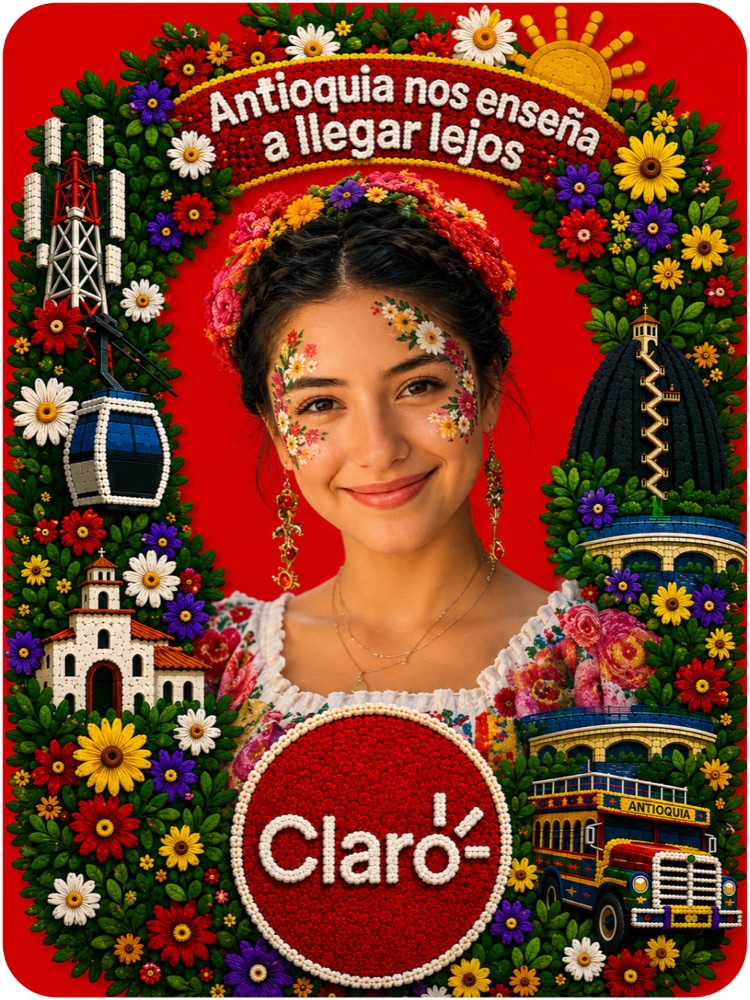
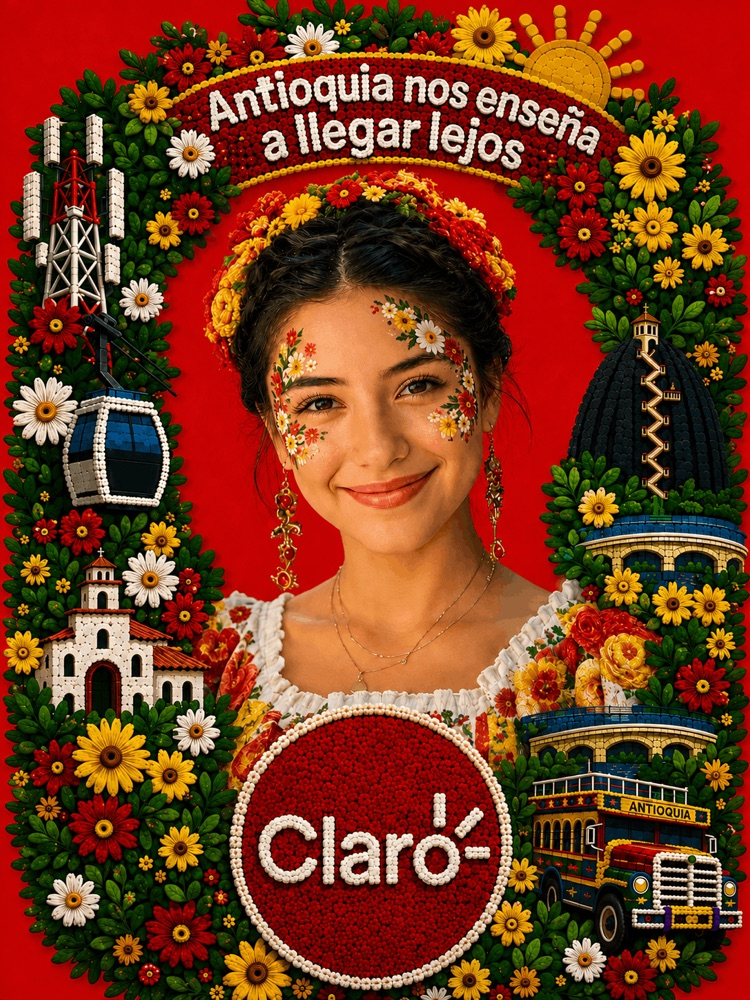
nuevas filtros

diff --git a/backend/functions/lib/config/feria.js b/backend/functions/lib/config/feria.js
@@ -105,7 +105,7 @@ exports.FERIA_FILTERS = {
     1: {
         id: 1,
         label: "Filtro 1",
-        templateUrl: "https://firebasestorage.googleapis.com/v0/b/imagen-ia-845a3.firebasestorage.app/o/feria-colombia%2FFiltro1.jpg?alt=media&token=954653c3-d5f4-4d55-a4c2-991527e5735a",
+        templateUrl: "https://firebasestorage.googleapis.com/v0/b/imagen-ia-845a3.firebasestorage.app/o/feria-colombia%2FFiltro1.png?alt=media&token=e8d69c2e-ff8c-47dc-bce9-3f10a6e406e0",
         prompt: `${BASE_PROMPT}
 
 HOW TO RENDER THE NEW FACE FOR THIS TEMPLATE:
@@ -114,7 +114,7 @@ In IMAGE 1 the model is a PHOTOREALISTIC WOMAN framed by an arch built out of re
 - The floral mosaic arch, the Antioquia landmarks inside it (antenna tower, Metrocable cabin, colonial church, Pueblito Paisa dome, bullring, chiva bus), the flower Claro logo and the flower banner must remain pixel-faithful to IMAGE 1.
 
 WARDROBE FOR THIS TEMPLATE — the model is a woman, so read the visitor's gender first:
-• IF THE VISITOR IS A WOMAN: keep everything as in IMAGE 1 — the earrings, the necklace and the embroidered white paisa blouse — and re-apply the delicate painted flower art (tiny daisies and petals) across the cheek and temple, adapted to the proportions of her face so it sits naturally on her features instead of looking pasted on.
+• IF THE VISITOR IS A WOMAN: keep everything as in IMAGE 1 — the earrings, the necklace and the embroidered white paisa blouse — and re-apply the painted flower art of IMAGE 1 — white daisies and small red and yellow blossoms spread across the cheekbone, the temple and the brow above the eye, at that same generous size and coverage — adapted to the proportions of her face so it follows her features instead of looking pasted on.
   MANDATORY: she must also wear the braided flower crown of IMAGE 1, with the same flowers, the same width and in the same position on top of her head, filling the same area of the frame. This applies even if her hair in IMAGE 2 is short, straight or loose: the crown rests on her own hair, which keeps the length and texture of her photo. Never leave her head bare.
 • IF THE VISITOR IS A MAN: no flower crown, no earrings, no necklace, no makeup, no embroidered or ruffled blouse. Instead:
   – A traditional Antioquian straw hat (sombrero aguadeño, natural or white straw) with a small band of the same flowers, placed where the flower crown was and filling the same area of the frame so the composition is identical.
@@ -128,14 +128,14 @@ ${OUTPUT_RULES}`,
     2: {
         id: 2,
         label: "Filtro 3",
-        templateUrl: "https://firebasestorage.googleapis.com/v0/b/imagen-ia-845a3.firebasestorage.app/o/feria-colombia%2FFiltro2.jpg?alt=media&token=8a949548-c42c-4e8a-be36-8257713c6f42",
+        templateUrl: "https://firebasestorage.googleapis.com/v0/b/imagen-ia-845a3.firebasestorage.app/o/feria-colombia%2FFiltro2.png?alt=media&token=f9b884b4-7b18-4915-a77d-6f147b9799c7",
         prompt: `${BASE_PROMPT}
 
 HOW TO RENDER THE NEW FACE FOR THIS TEMPLATE:
-IMAGE 1 is a PHOTOGRAPH, not an illustration: a WOMAN among the fresh flowers of a silleta, on a vivid Claro-red backdrop, with the campaign headline at the top and the round Claro logo with "PUEDES TODO" at the bottom right.
+IMAGE 1 is a PHOTOGRAPH, not an illustration: a WOMAN among the fresh flowers of a silleta, on a warm backdrop that graduates from Claro red at the top to orange, with glowing golden neon flower outlines in the corners, the campaign headline at the top and the round Claro logo with "PUEDES TODO" at the bottom right. Reproduce that gradient and those warm neon accents exactly as they are; do not flatten the background to a single red, and do not shift the neon to pink or magenta.
 - The output must stay fully PHOTOGRAPHIC. Natural skin texture with pores and real micro-detail, the same warm daylight, the same shallow depth of field and the same colour grade as IMAGE 1. Never stylise, paint, illustrate or 3D-render the face.
 - CAREFUL WITH THIS TEMPLATE: the model looks upwards and sideways with a wide open smile and one hand near her hair. That is HER pose, not an instruction. The visitor keeps the head angle, gaze and expression of IMAGE 2 — most visitors will be looking straight at the camera, and that is correct. If the raised hand no longer makes sense with the visitor's head position, leave it out; the flowers already fill that area.
-- The flowers, the bamboo silleta structure, the red backdrop with its neon flower outlines, the headline and the Claro logo stay exactly as in IMAGE 1.
+- The flowers, the bamboo silleta structure, the red-to-orange backdrop with its golden neon flower outlines, the headline with its hummingbird and yellow flower, and the Claro logo stay exactly as in IMAGE 1.
 
 WARDROBE FOR THIS TEMPLATE — the model is a woman, so read the visitor's gender first:
 • IF THE VISITOR IS A WOMAN: keep the handmade flower earrings and the gold necklaces of IMAGE 1, and re-apply the small floral glitter and the tiny flowers near the eye, adapted to her face.
@@ -146,7 +146,7 @@ ${OUTPUT_RULES}`,
     3: {
         id: 3,
         label: "Filtro 2",
-        templateUrl: "https://firebasestorage.googleapis.com/v0/b/imagen-ia-845a3.firebasestorage.app/o/feria-colombia%2FFiltro3.jpg?alt=media&token=3a5a8edb-974b-4858-b1d0-198bbcf2a148",
+        templateUrl: "https://firebasestorage.googleapis.com/v0/b/imagen-ia-845a3.firebasestorage.app/o/feria-colombia%2FFiltro3.png?alt=media&token=7fff4d42-aaa7-4ebd-9aa8-40aa97b167be",
         prompt: `${BASE_PROMPT}
 
 HOW TO RENDER THE NEW FACE FOR THIS TEMPLATE:

diff --git a/backend/functions/src/config/feria.ts b/backend/functions/src/config/feria.ts
@@ -120,7 +120,7 @@ export const FERIA_FILTERS: Record<FeriaFilterId, FeriaFilter> = {
     id: 1,
     label: "Filtro 1",
     templateUrl:
-      "https://firebasestorage.googleapis.com/v0/b/imagen-ia-845a3.firebasestorage.app/o/feria-colombia%2FFiltro1.jpg?alt=media&token=954653c3-d5f4-4d55-a4c2-991527e5735a",
+      "https://firebasestorage.googleapis.com/v0/b/imagen-ia-845a3.firebasestorage.app/o/feria-colombia%2FFiltro1.png?alt=media&token=e8d69c2e-ff8c-47dc-bce9-3f10a6e406e0",
     prompt: `${BASE_PROMPT}
 
 HOW TO RENDER THE NEW FACE FOR THIS TEMPLATE:
@@ -129,7 +129,7 @@ In IMAGE 1 the model is a PHOTOREALISTIC WOMAN framed by an arch built out of re
 - The floral mosaic arch, the Antioquia landmarks inside it (antenna tower, Metrocable cabin, colonial church, Pueblito Paisa dome, bullring, chiva bus), the flower Claro logo and the flower banner must remain pixel-faithful to IMAGE 1.
 
 WARDROBE FOR THIS TEMPLATE — the model is a woman, so read the visitor's gender first:
-• IF THE VISITOR IS A WOMAN: keep everything as in IMAGE 1 — the earrings, the necklace and the embroidered white paisa blouse — and re-apply the delicate painted flower art (tiny daisies and petals) across the cheek and temple, adapted to the proportions of her face so it sits naturally on her features instead of looking pasted on.
+• IF THE VISITOR IS A WOMAN: keep everything as in IMAGE 1 — the earrings, the necklace and the embroidered white paisa blouse — and re-apply the painted flower art of IMAGE 1 — white daisies and small red and yellow blossoms spread across the cheekbone, the temple and the brow above the eye, at that same generous size and coverage — adapted to the proportions of her face so it follows her features instead of looking pasted on.
   MANDATORY: she must also wear the braided flower crown of IMAGE 1, with the same flowers, the same width and in the same position on top of her head, filling the same area of the frame. This applies even if her hair in IMAGE 2 is short, straight or loose: the crown rests on her own hair, which keeps the length and texture of her photo. Never leave her head bare.
 • IF THE VISITOR IS A MAN: no flower crown, no earrings, no necklace, no makeup, no embroidered or ruffled blouse. Instead:
   – A traditional Antioquian straw hat (sombrero aguadeño, natural or white straw) with a small band of the same flowers, placed where the flower crown was and filling the same area of the frame so the composition is identical.
@@ -144,14 +144,14 @@ ${OUTPUT_RULES}`,
     id: 2,
     label: "Filtro 3",
     templateUrl:
-      "https://firebasestorage.googleapis.com/v0/b/imagen-ia-845a3.firebasestorage.app/o/feria-colombia%2FFiltro2.jpg?alt=media&token=8a949548-c42c-4e8a-be36-8257713c6f42",
+      "https://firebasestorage.googleapis.com/v0/b/imagen-ia-845a3.firebasestorage.app/o/feria-colombia%2FFiltro2.png?alt=media&token=f9b884b4-7b18-4915-a77d-6f147b9799c7",
     prompt: `${BASE_PROMPT}
 
 HOW TO RENDER THE NEW FACE FOR THIS TEMPLATE:
-IMAGE 1 is a PHOTOGRAPH, not an illustration: a WOMAN among the fresh flowers of a silleta, on a vivid Claro-red backdrop, with the campaign headline at the top and the round Claro logo with "PUEDES TODO" at the bottom right.
+IMAGE 1 is a PHOTOGRAPH, not an illustration: a WOMAN among the fresh flowers of a silleta, on a warm backdrop that graduates from Claro red at the top to orange, with glowing golden neon flower outlines in the corners, the campaign headline at the top and the round Claro logo with "PUEDES TODO" at the bottom right. Reproduce that gradient and those warm neon accents exactly as they are; do not flatten the background to a single red, and do not shift the neon to pink or magenta.
 - The output must stay fully PHOTOGRAPHIC. Natural skin texture with pores and real micro-detail, the same warm daylight, the same shallow depth of field and the same colour grade as IMAGE 1. Never stylise, paint, illustrate or 3D-render the face.
 - CAREFUL WITH THIS TEMPLATE: the model looks upwards and sideways with a wide open smile and one hand near her hair. That is HER pose, not an instruction. The visitor keeps the head angle, gaze and expression of IMAGE 2 — most visitors will be looking straight at the camera, and that is correct. If the raised hand no longer makes sense with the visitor's head position, leave it out; the flowers already fill that area.
-- The flowers, the bamboo silleta structure, the red backdrop with its neon flower outlines, the headline and the Claro logo stay exactly as in IMAGE 1.
+- The flowers, the bamboo silleta structure, the red-to-orange backdrop with its golden neon flower outlines, the headline with its hummingbird and yellow flower, and the Claro logo stay exactly as in IMAGE 1.
 
 WARDROBE FOR THIS TEMPLATE — the model is a woman, so read the visitor's gender first:
 • IF THE VISITOR IS A WOMAN: keep the handmade flower earrings and the gold necklaces of IMAGE 1, and re-apply the small floral glitter and the tiny flowers near the eye, adapted to her face.
@@ -163,7 +163,7 @@ ${OUTPUT_RULES}`,
     id: 3,
     label: "Filtro 2",
     templateUrl:
-      "https://firebasestorage.googleapis.com/v0/b/imagen-ia-845a3.firebasestorage.app/o/feria-colombia%2FFiltro3.jpg?alt=media&token=3a5a8edb-974b-4858-b1d0-198bbcf2a148",
+      "https://firebasestorage.googleapis.com/v0/b/imagen-ia-845a3.firebasestorage.app/o/feria-colombia%2FFiltro3.png?alt=media&token=7fff4d42-aaa7-4ebd-9aa8-40aa97b167be",
     prompt: `${BASE_PROMPT}
 
 HOW TO RENDER THE NEW FACE FOR THIS TEMPLATE:
